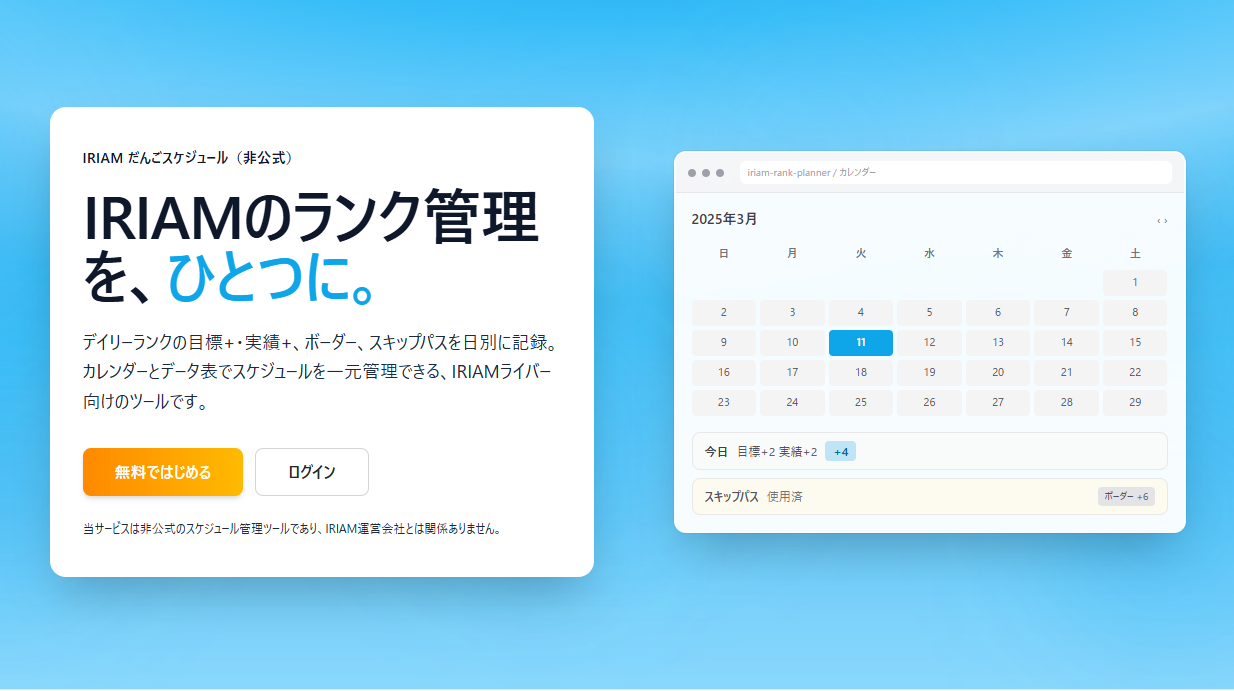
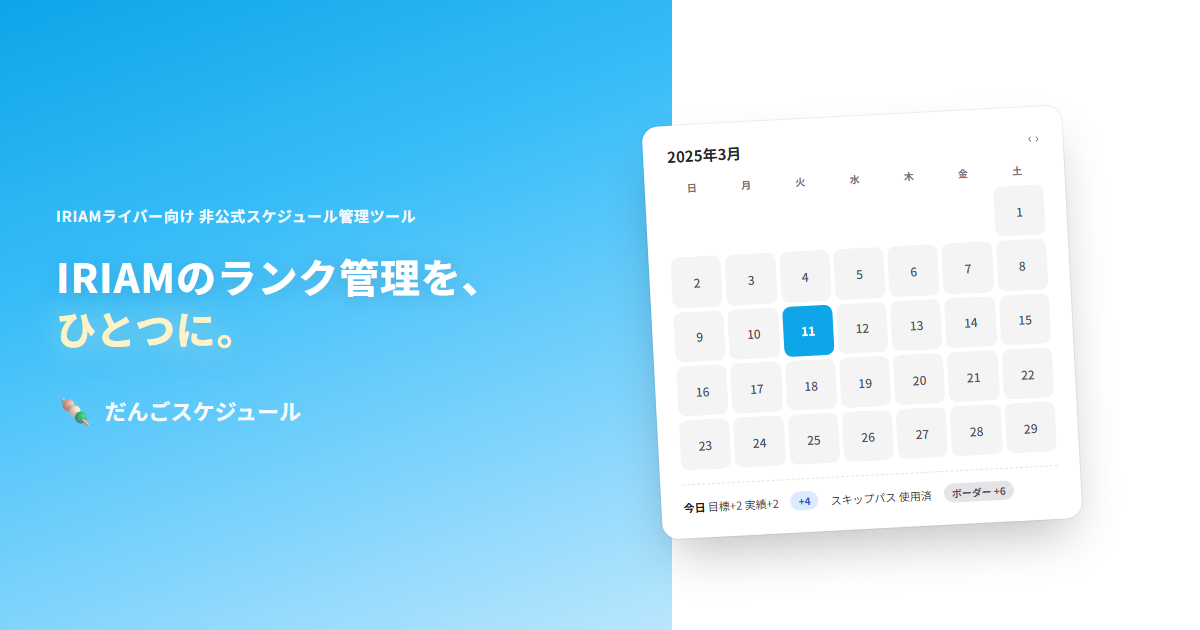
OGPを案Aデザインに差し替え（HTML生成＋スクショスクリプト）
- scripts/ogp.html: 左テキスト・右カレンダーモックの1200x630デザイン
- scripts/ogp-screenshot.mjs: Playwrightでogp.pngを生成するスクリプト
- public/ogp.png: 上記で生成した画像に置き換え

Made-with: Cursor

diff --git a/scripts/ogp.html b/scripts/ogp.html
@@ -1,0 +1,227 @@
+<!DOCTYPE html>
+<html lang="ja">
+<head>
+  <meta charset="UTF-8" />
+  <meta name="viewport" content="width=1200, height=630" />
+  <title>IRIAM だんごスケジュール</title>
+  <link rel="preconnect" href="https://fonts.googleapis.com" />
+  <link rel="preconnect" href="https://fonts.gstatic.com" crossorigin />
+  <link href="https://fonts.googleapis.com/css2?family=Noto+Sans+JP:wght@400;500;700;800&display=swap" rel="stylesheet" />
+  <style>
+    * { margin: 0; padding: 0; box-sizing: border-box; }
+    html, body {
+      width: 1200px;
+      height: 630px;
+      overflow: hidden;
+      font-family: 'Noto Sans JP', sans-serif;
+    }
+    .root {
+      width: 1200px;
+      height: 630px;
+      position: relative;
+      display: flex;
+      align-items: stretch;
+      overflow: hidden;
+    }
+    /* 左半分: グラデ + 白文字 */
+    .left {
+      width: 56%;
+      min-width: 560px;
+      padding: 56px 48px 56px 56px;
+      display: flex;
+      flex-direction: column;
+      justify-content: center;
+      background: linear-gradient(160deg, #0ea5e9 0%, #38bdf8 35%, #7dd3fc 70%, #bae6fd 100%);
+    }
+    .sub {
+      font-size: 15px;
+      font-weight: 700;
+      color: rgba(255,255,255,0.95);
+      letter-spacing: 0.04em;
+      margin-bottom: 24px;
+    }
+    .title {
+      font-size: 40px;
+      font-weight: 800;
+      line-height: 1.3;
+      color: #fff;
+      letter-spacing: 0.02em;
+      margin-bottom: 40px;
+      text-shadow: 0 2px 20px rgba(0,0,0,0.12);
+    }
+    .title .accent {
+      color: #fef3c7;
+      text-shadow: 0 0 30px rgba(254,243,199,0.5);
+      white-space: nowrap;
+    }
+    .brand {
+      display: flex;
+      align-items: center;
+      gap: 10px;
+      font-size: 22px;
+      font-weight: 700;
+      color: rgba(255,255,255,0.95);
+    }
+    .brand-icon {
+      font-size: 28px;
+      line-height: 1;
+    }
+    /* 右半分: カレンダーUIモック */
+    .right {
+      flex: 1;
+      display: flex;
+      align-items: center;
+      justify-content: flex-start;
+      padding-left: 0;
+      position: relative;
+    }
+    .mock {
+      width: 420px;
+      transform: rotate(-3deg);
+      position: relative;
+      left: -20px;
+      top: 8px;
+      background: #fff;
+      border-radius: 16px;
+      box-shadow: 0 25px 50px -12px rgba(0,0,0,0.25), 0 0 0 1px rgba(0,0,0,0.06);
+      padding: 20px 22px 22px;
+    }
+    .mock-header {
+      display: flex;
+      align-items: center;
+      justify-content: space-between;
+      margin-bottom: 14px;
+      padding: 0 2px;
+    }
+    .mock-month {
+      font-size: 15px;
+      font-weight: 700;
+      color: #27272a;
+    }
+    .mock-nav {
+      font-size: 13px;
+      color: #71717a;
+    }
+    .mock-weekdays {
+      display: grid;
+      grid-template-columns: repeat(7, 1fr);
+      gap: 4px;
+      text-align: center;
+      font-size: 10px;
+      font-weight: 600;
+      color: #71717a;
+      margin-bottom: 8px;
+    }
+    .mock-grid {
+      display: grid;
+      grid-template-columns: repeat(7, 1fr);
+      gap: 4px;
+      text-align: center;
+      font-size: 12px;
+      font-weight: 500;
+    }
+    .mock-cell {
+      aspect-ratio: 1;
+      display: flex;
+      align-items: center;
+      justify-content: center;
+      border-radius: 8px;
+      color: #52525b;
+      background: #f4f4f5;
+    }
+    .mock-cell.empty { background: transparent; color: transparent; }
+    .mock-cell.today {
+      background: #0ea5e9;
+      color: #fff;
+      font-weight: 700;
+    }
+    .mock-detail {
+      margin-top: 14px;
+      padding-top: 12px;
+      border-top: 1px dashed #e4e4e7;
+      display: flex;
+      flex-wrap: wrap;
+      align-items: center;
+      gap: 8px 12px;
+      font-size: 11px;
+      color: #3f3f46;
+    }
+    .mock-detail strong { color: #18181b; }
+    .mock-pill {
+      display: inline-block;
+      padding: 2px 8px;
+      border-radius: 9999px;
+      font-size: 10px;
+      font-weight: 600;
+    }
+    .mock-pill.blue { background: #dbeafe; color: #1d4ed8; }
+    .mock-pill.gray { background: #e4e4e7; color: #52525b; }
+  </style>
+</head>
+<body>
+  <div class="root">
+    <div class="left">
+      <p class="sub">IRIAMライバー向け 非公式スケジュール管理ツール</p>
+      <h1 class="title">IRIAMのランク管理を、<span class="accent">ひとつに。</span></h1>
+      <div class="brand">
+        <span class="brand-icon" aria-hidden="true">🍡</span>
+        <span>だんごスケジュール</span>
+      </div>
+    </div>
+    <div class="right">
+      <div class="mock">
+        <div class="mock-header">
+          <span class="mock-month">2025年3月</span>
+          <span class="mock-nav">‹ ›</span>
+        </div>
+        <div class="mock-weekdays">
+          <span>日</span><span>月</span><span>火</span><span>水</span><span>木</span><span>金</span><span>土</span>
+        </div>
+        <div class="mock-grid">
+          <span class="mock-cell empty"></span>
+          <span class="mock-cell empty"></span>
+          <span class="mock-cell empty"></span>
+          <span class="mock-cell empty"></span>
+          <span class="mock-cell empty"></span>
+          <span class="mock-cell empty"></span>
+          <span class="mock-cell">1</span>
+          <span class="mock-cell">2</span>
+          <span class="mock-cell">3</span>
+          <span class="mock-cell">4</span>
+          <span class="mock-cell">5</span>
+          <span class="mock-cell">6</span>
+          <span class="mock-cell">7</span>
+          <span class="mock-cell">8</span>
+          <span class="mock-cell">9</span>
+          <span class="mock-cell">10</span>
+          <span class="mock-cell today">11</span>
+          <span class="mock-cell">12</span>
+          <span class="mock-cell">13</span>
+          <span class="mock-cell">14</span>
+          <span class="mock-cell">15</span>
+          <span class="mock-cell">16</span>
+          <span class="mock-cell">17</span>
+          <span class="mock-cell">18</span>
+          <span class="mock-cell">19</span>
+          <span class="mock-cell">20</span>
+          <span class="mock-cell">21</span>
+          <span class="mock-cell">22</span>
+          <span class="mock-cell">23</span>
+          <span class="mock-cell">24</span>
+          <span class="mock-cell">25</span>
+          <span class="mock-cell">26</span>
+          <span class="mock-cell">27</span>
+          <span class="mock-cell">28</span>
+          <span class="mock-cell">29</span>
+        </div>
+        <div class="mock-detail">
+          <span><strong>今日</strong> 目標+2 実績+2</span>
+          <span class="mock-pill blue">+4</span>
+          <span>スキップパス 使用済</span>
+          <span class="mock-pill gray">ボーダー +6</span>
+        </div>
+      </div>
+    </div>
+  </div>
+</body>
+</html>
